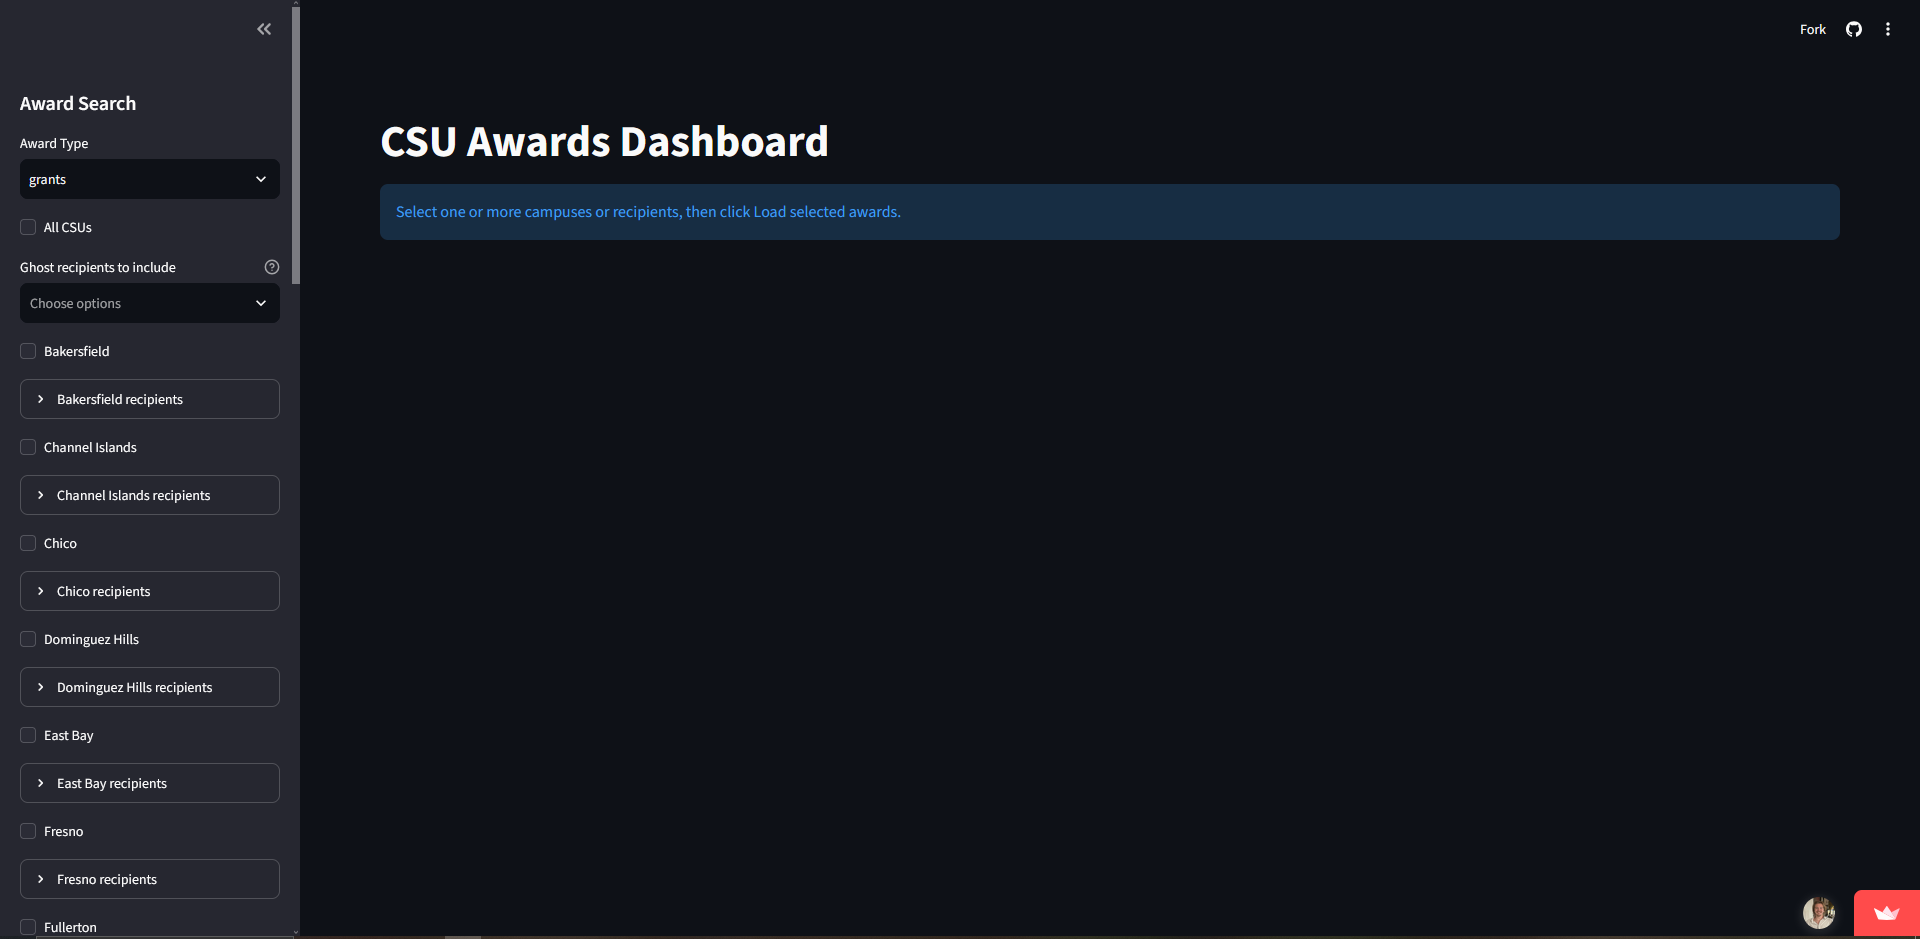
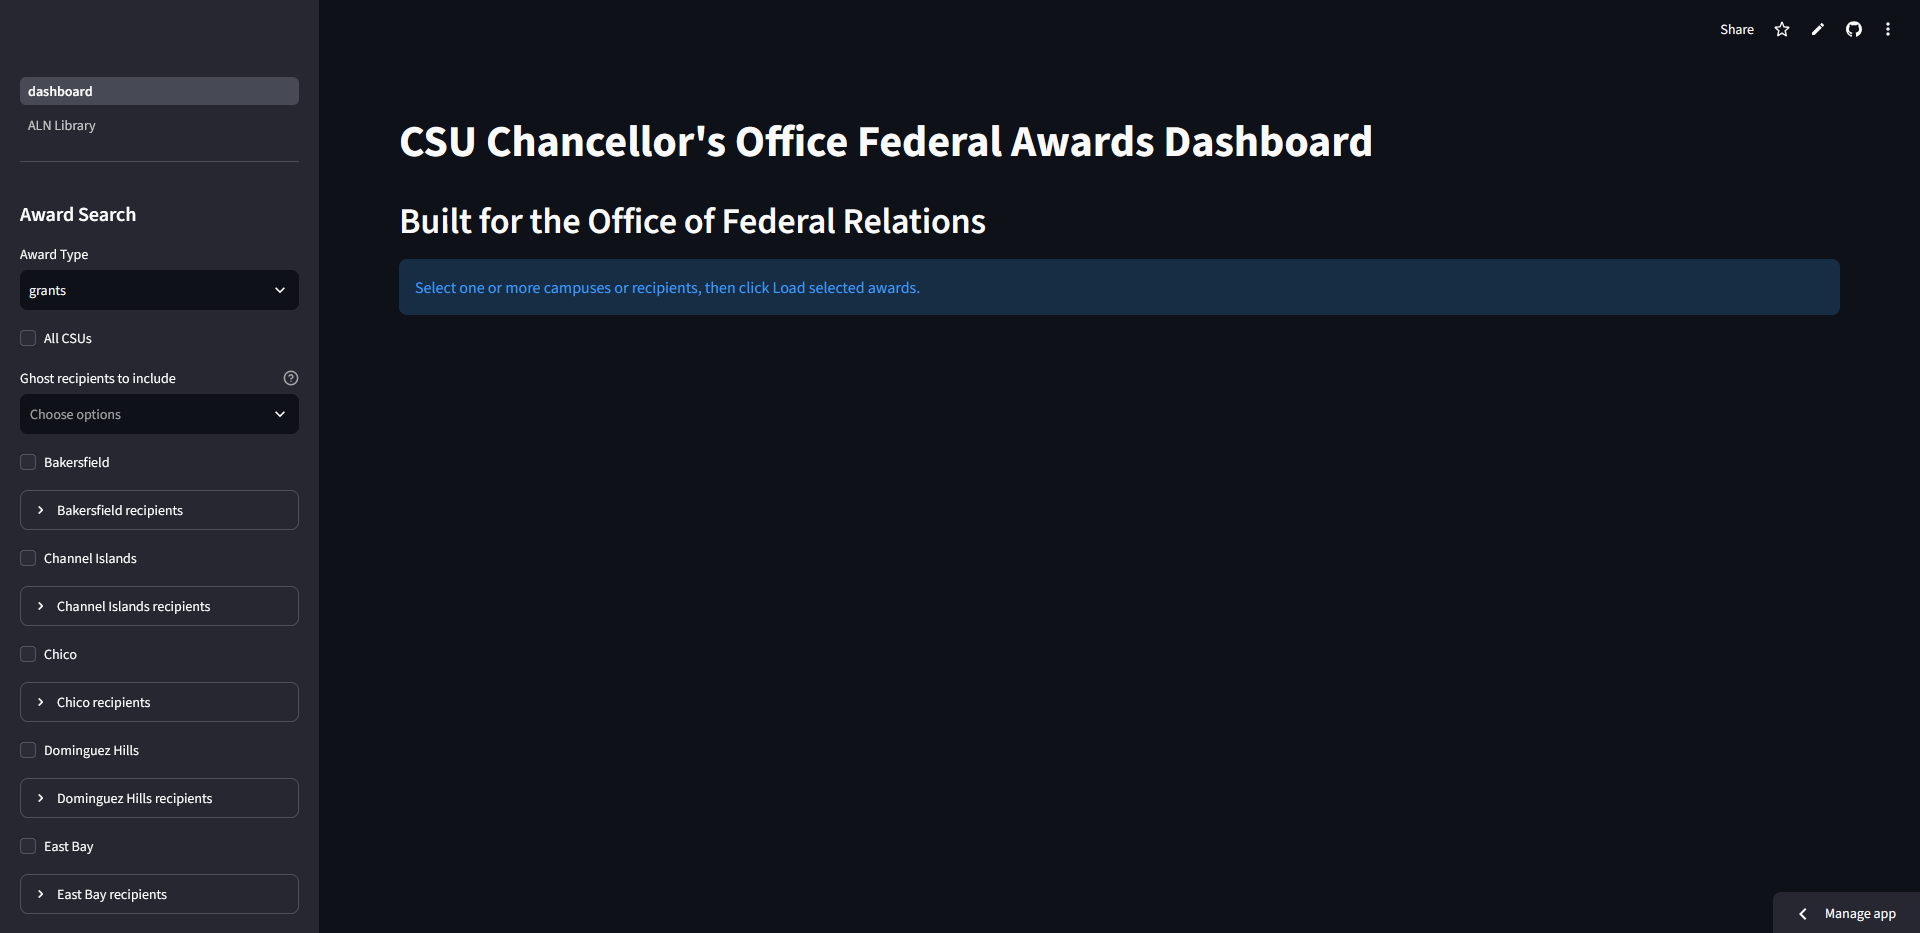
Finished instructional portion of README.md.

Changed region(s): [[0.0, 0.0, 1.0, 1.0], [0.0, 0.5595, 0.0312, 0.5906]]

diff --git a/README.md b/README.md
@@ -3,10 +3,15 @@
 - The CSU Grants Dashboard is powered by a public Python library called Streamlit. Streamlit hosts the server, so all you have to do is click [here](https://csugrants.streamlit.app/) to access the dashboard. If the link doesn't work, simply typing csugrants.streamlit.app into your browser should. 
 - From here, you should see this screen, or something very similar. ![img.png](img.png)
 - If you open to this page instead, fret not for clicking *Yes, get this app back up!* will work to bring you back to the desired page. As Streamlit is a free service, it puts its apps to sleep after 12 hours of inactivity to reserve resources on their end.
-- ![img_1.png](img_1.png)
+![img_1.png](img_1.png)
 
 ## The Sidebar
-- The first place you should inspect is the sidebar on the left titled *Award Search*. This can be hidden by clicking the two << arrows on the top of the sidebar.
+- The first place you should inspect is the sidebar on the left with two clickable options at the top: _dashboard_ or _ALN Library_. This can be hidden by clicking the two << arrows on the top of the sidebar. 
+- The default selected _dashboard_ is the main part of this project, and is outlined below. The _ALN Library_ page can be selected to view a compilation of all ALN present in USAspending's database, organized by their respective agency. In the case of the Department of Health and Human Services, each ALN are organized by HHS Divisions as well.
+- As all data on USAspending is self-reported, one should note that some ALN appear more than once, tied to two similar names. One example of this is in the Corporation for National and Community Service's table where we see ALN 94.011 appear twice, tied to FOSTER GRANDPARENT PROGRAM and FOSTER GRANPARENT PROGRAM. Notice the missing D in the second name, and note that misspelled names are a common feature of USAspending's data. 
+- With the deconstruction of the Department of Education, or with the passing of time, many ALN will change. If you believe a change should be made to this list, send an email through the link at the bottom of the dashboard's sidebar (more on this later).
+- Moving onto the dashboard page of the sidebar, the following sections will outline all navigation and capabilities below the Award Search title.
+
 ### Award Type
 - The first option to select determines the type of award the dashboard will load. While the dashboard's address is csugrants.streamlit.app, it can indeed load more than just grants. The available awards are grants, contracts, subgrants, and subcontracts. Just click on the dropdown menu to determine which will be loaded.
 - Next, you'll decide which campuses you'll want the data loaded for. 
@@ -15,27 +20,34 @@
 - To navigate their naming scheme, I have organized award recipients into two categories: Ghost recipients and Active recipients. All Ghost recipients are just recipient names I've deemed inactive, but shouldn't be overlooked. The Ghost recipients can be accessed with the next dropdown menu, but typically won't return many rows of data. The Active recipients are each grouped by the CSU campus they're tied to. If you wish to view data related to all recipients tied to CSU Bakersfield, you can check the box titled *Bakersfield*. If, however, you just wish to inspect data related to a few specific recipients tied to Bakersfield, you can click on the dropdown titled *Bakersfield recipients* to toggle your desired names. It should be noted that clicking the *Bakersfield* toggle will only select all Active names tied to the campus. If you want any Ghost recipients, you can add those with the previously mentioned dropdown. 
 - Multiple campuses can be selected at once. You can also select a full campus (such as Bakersfield) and just one recipient name tied to another campus (such as Chico State Enterprises). If you wish to automatically select all Active recipients, you can select the *All CSUs* toggle at the top. All names are alphabetized.
 ### Loading the Data
-- Once you've selected the award type and recipients, you'll find the *No time restriction* toggle at the bottom. This, along with the *Load awards from year* box determine how far back in time you will be searching. The default is 2019 which makes all awards whose action date falls within January 1st 2019 to present day (inclusive) will be loaded. *No time restriction* can be selected to load every grant in the USAspending database.
+- Once you've selected the award type and recipients, you'll find the *No time restriction* toggle at the bottom. This, along with the *Load awards from year* box, determine the earliest action date an award can have in your search. The default is to have no time restriction which ensures the entire USAspending database will be queried. One can also deselect this box to add a date, which will set the earliest action date to January first of that year.
 - The *Fetch all matching awards* toggle is selected by default. Deselecting this will allow you to determine how many awards should be loaded, each recipient will then have that many rows loaded. The awards that are loaded are determined by the Prime Award ID (descending) for awards and contracts, ALN (descending) for subgrants, and Awarding Agency (descending) for subcontracts. 
 - Both of these restrictions were included for load-time testing in development, but  I've kept them incase they are useful to someone else. 
 - Once you've determined all your settings, click the red *Load selected awards* button. This is the only button you can click that will actually ping USAspending with an API pull request, and this will only occur if cache data has been refreshed.
 - The *Refresh cache data* button should only be clicked if you believe new awards have shown up in USAspending's database since the last cache data refresh. The first time you load awards after clicking *Refresh cache data*, it will take significantly longer to load as the dashboard will perform API pull requests. If you choose to load data again after this, all rows will have been cached (stored, like taking a screenshot to avoid expensive computations in future runs) and the load time will be significantly decreased. 
 
 ## The Data
-- Minimizing the sidebar will give you the largest view of the loaded data, although it is unnecessary. 
-- At the top of the page, you will see a *Load timing* dropdown. This was another developmental tool I've kept. It shows each recipient name that was selected to be loaded, their UEI, the time it took to load their awards, and the quantity of loaded awards. While hovering over the table, you'll see four icons appear in the top right. The eye allows you to hide certain columns, the download button will download this table as a .csv, the magnifying glass will allow you to search for text (think Control/Command f), and the four corners icon will allow you to expand and minimize the table. Many of these icons appear on the tables on this page. 
+- Minimizing the sidebar will give you the largest view of the loaded data. 
+- At the top of the page, you will see a *Load timing* dropdown. This was another developmental tool I've kept. It shows each recipient name that was selected to be loaded, their UEI, the time it took to load their awards, and the quantity of loaded awards. While hovering over the table, you'll see four icons appear in the top right. The eye allows you to hide certain columns, the download button will download this table as a .csv, the magnifying glass will allow you to search for text (think Control/Command f), and the four corners icon will allow you to expand and minimize the table. Many of these icons appear on the tables throughout this page. 
 - The *Total Obligations* and *Total Outlays* numbers represent the sum dollar amount of obligations and outlays from the rows of currently loaded data.
-- The *Obligations by Awarding Agency* graph represents how much money each loaded awarding agency is responsible for in obligations across all currently loaded rows of data. As the Department of Education is responsible for far more than most agencies, I've added a toggle to hide their contributions. While hovering over this graph, there is a table icon in the top left that will allow you to view the graph as a table. The numbers on the far left index the recipient names alphabetically. 
+- The *Obligations by Awarding Agency* graph represents how much money each loaded awarding agency is responsible for in obligations across all currently loaded rows of data. As the Department of Education's stabilization fund 84.425 is responsible for a tremendous contribution to the obligations value, I've added a toggle to remove this award. Similarly, as the Department of Education is responsible for far more obligations than most agencies, I've added a toggle to hide all of their contributions. While hovering over this graph, there is a table icon in the top right that will allow you to view the graph as a table. The numbers on the far left are indices representing the recipient names alphabetically. 
 ![img_2.png](img_2.png)
 ![img_3.png](img_3.png)
-- The *Selected Agency Obligations by Recipient* graph is under development.
+- The *Selected Agency Obligations by Campus* graph allows you to select one agency and view the obligations that each CSU campus receives from said agency in your loaded data. I suggest trying this with the grants award type selected, *All CSUs, No time restriction*, and *Fetch all matching awards* selected. The agency with the highest obligations will be selected by default. You can then click on the blue bar corresponding to your campus of interest to view the same obligations and how they're divided amongst the various recipient names tied to your campus of interest. Try it by clicking on Northridge's bar.
+- Clicking Northridge's blue bar brings up the Northridge Obligations by Recipient graph. This will display the obligations divided amongst the recipients tied to the Northridge campus. You can now click on one of the recipients' blue bars (try with _The University Corporation_) and it will divide the obligations amongst the ALN tied to each grant that recipient received for the most granular view.
+![img_5.png](img_5.png)
+- If loading these obligations graphs for the Department of Health and Human Services, once you select your recipient of the campus, a new graph will appear. This graph, divides obligations amongst HHS divisions, which are also clickable to then view obligations at the ALN level. 
 - At the bottom of the page is the rows of data you've selected to be loaded. The formatting is meant to resemble USAspending's table, and is again ordered in the same way as outlined in "Loading the Data." You can add filters to each column by clicking on the three shrinking horizontal bars and typing in the text box. Notice that filters can be changed from the default *Contains* to many other options. This should be especially useful for filtering exact dates, obligation minimums, or ALNs. 
 ![img_4.png](img_4.png)
 - Once you've filtered the exact rows you want in your table, you can click the *Download results as CSV* right above the table to save your results. Additionally, the first entry of each row acts as a link that can take you to USAspending's page for that specific award if you want further details.
 
-## ALN Library
-- Under development.
+## Suggested Changes
+- At the bottom of the dashboard page's sidebar is a link to send an email to Dr. Bethany Johns if you find a bug. 
+- This email should also be used if you believe one of the ghost recipients should be brought into the active recipients section, or vice versa. 
+- Some ALN data may also be requested to be changed in the ALN Library. 
+- As USAspending's database is constantly updating, you may find recipient names present at usaspending.gov that don't appear in our dashboard. This would be another great thing to email, as we can change this as well. 
 
 ## Acknowledgements
 - Development of this project was assisted by ChatGPT and Claude. 
 - Thanks to Dr. Bethany Johns for project guidance and providing ongoing feedback throughout development.
+
